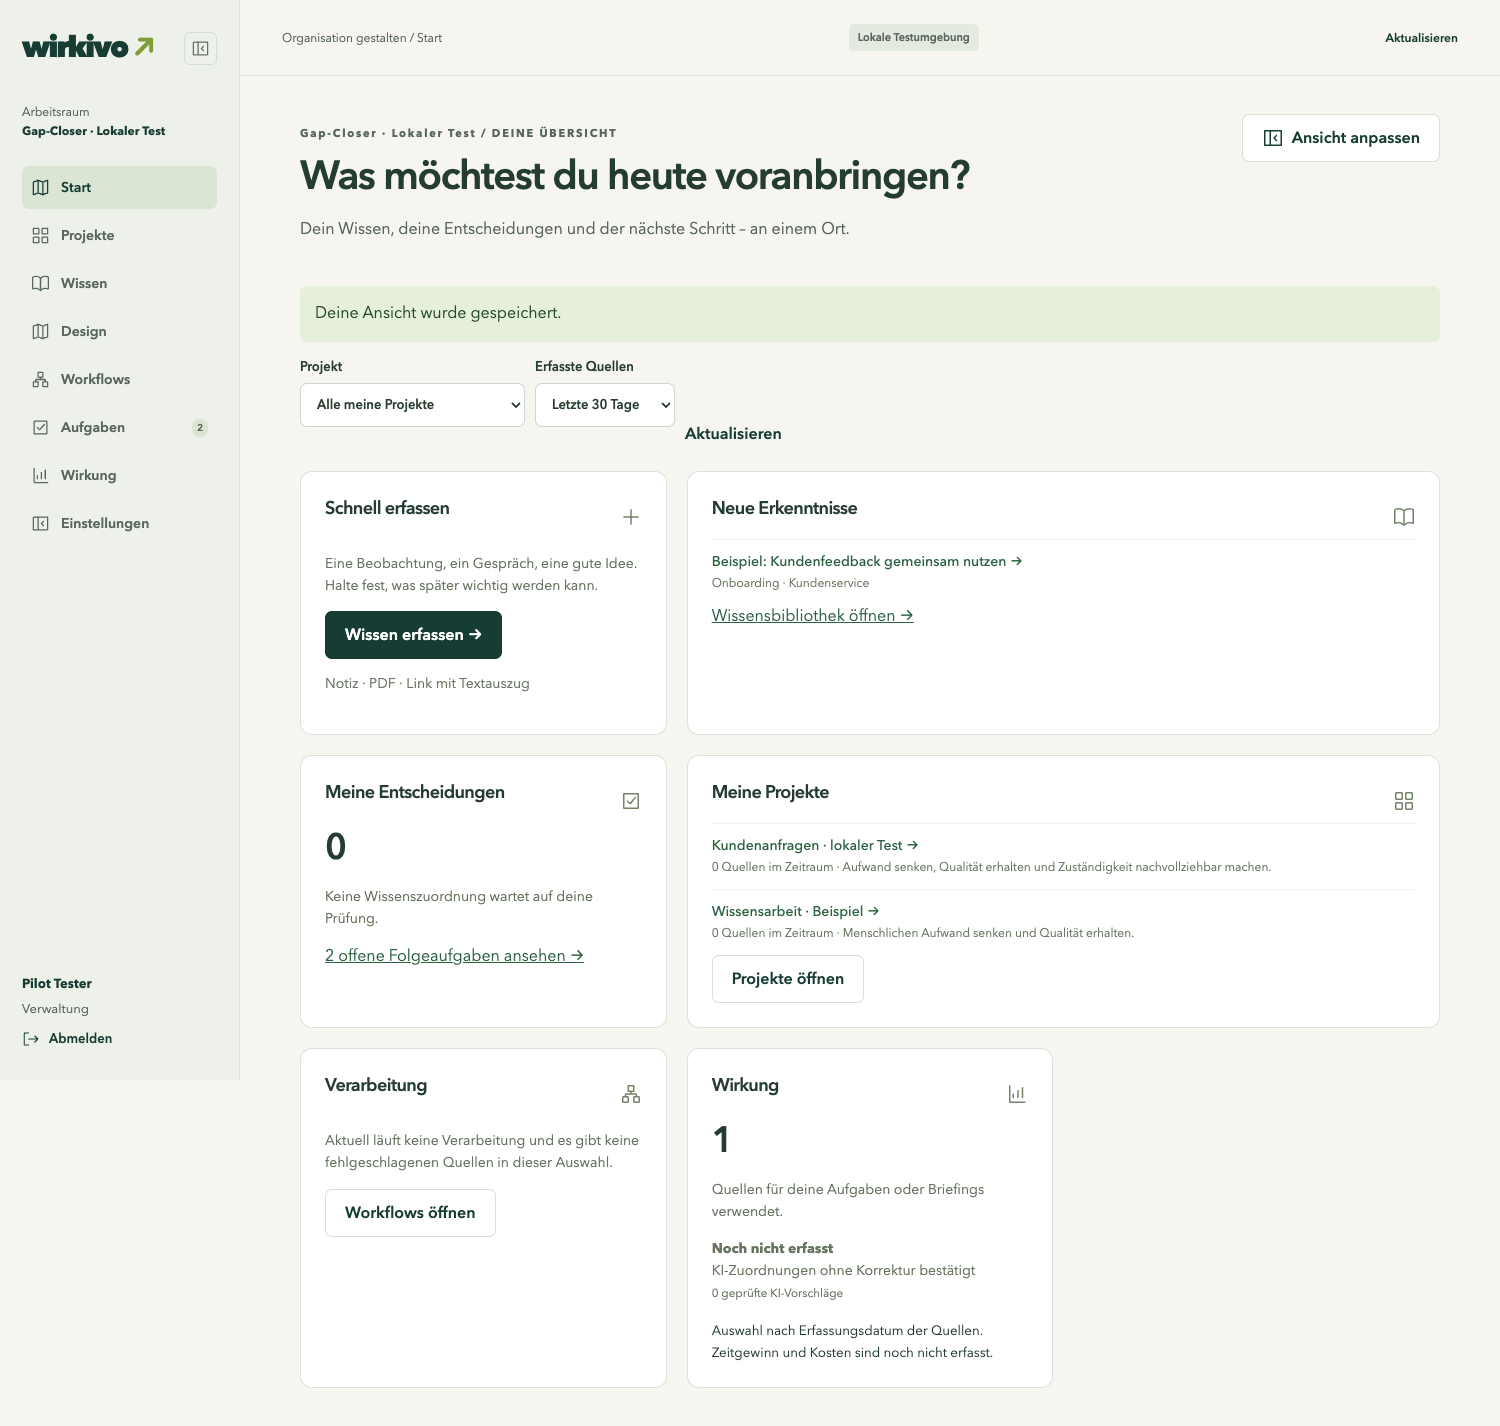
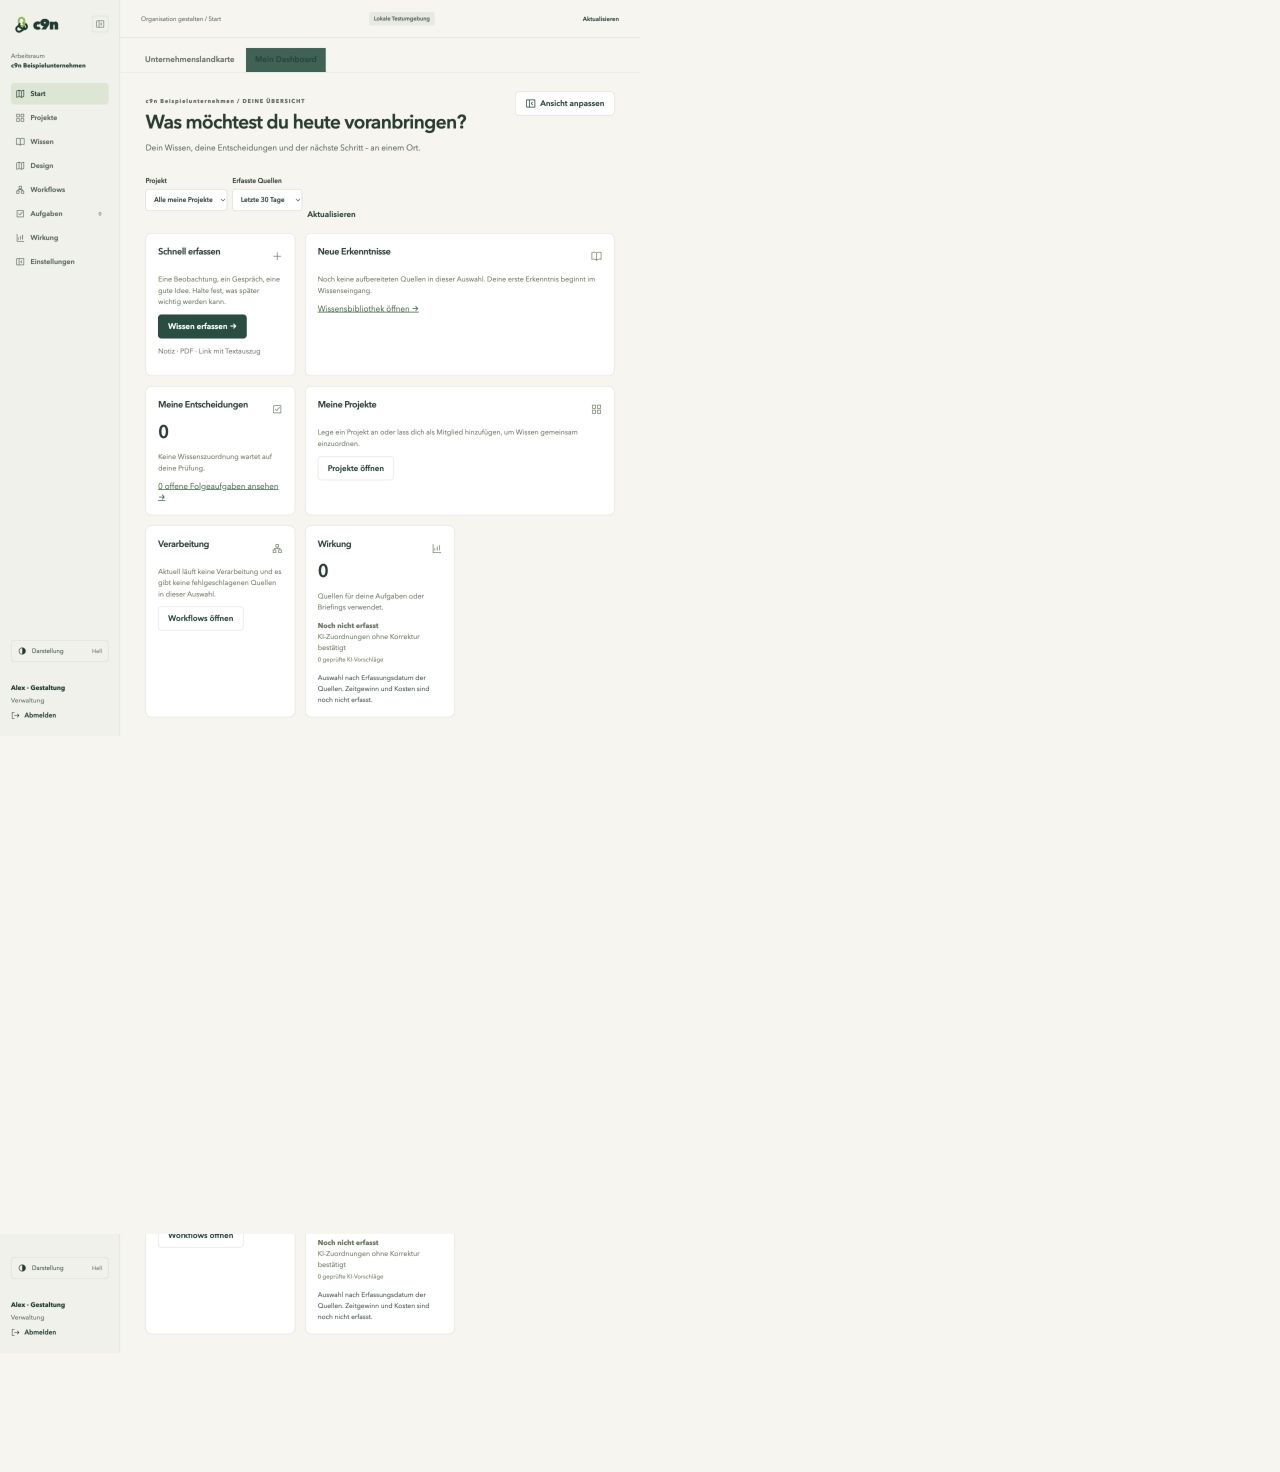
Refresh actual product screenshots with c9n branding

diff --git a/docs/index.html b/docs/index.html
@@ -1,10 +1,10 @@
 <!doctype html><html lang="de"><head><meta charset="utf-8"><meta name="viewport" content="width=device-width,initial-scale=1"><title>c9n — Zusammenarbeit mit KI gestalten. Wirkung belegen.</title><meta name="description" content="Entdecke c9n: Unternehmensgestaltung, gemeinsames Wissen, Workflows mit menschlicher Prüfung und nachvollziehbare Messung. Starte mit einem begleiteten Prozesspilot."><link rel="canonical" href="https://c9n.app/"><link rel="alternate" hreflang="de" href="https://c9n.app/"><link rel="alternate" hreflang="en" href="https://c9n.app/en.html"><link rel="alternate" hreflang="x-default" href="https://c9n.app/"><meta property="og:title" content="c9n — Zusammenarbeit mit KI gestalten"><meta property="og:description" content="Den echten Prototyp ansehen, den Entwicklungsstand verstehen und einen messbaren Prozesspilot besprechen."><meta property="og:type" content="website"><meta property="og:locale" content="de_DE"><meta property="og:url" content="https://c9n.app/"><meta property="og:image" content="https://c9n.app/assets/company-landscape.png"><meta name="twitter:card" content="summary_large_image"><link rel="stylesheet" href="site.css"><script src="language.js" defer></script><script src="contact.js" defer></script><link rel="icon" type="image/svg+xml" href="assets/favicon.svg"></head><body>
 <header><a class="logo" href="#"><svg class="c9n-brand-symbol" viewBox="-4 -4 72 72" aria-hidden="true"><g fill="none" stroke-width="8" stroke-linecap="round"><path d="M25 35 16 40a11 11 0 0 0 11 19l10-6a11 11 0 0 0 4-15" stroke="currentColor"/><path d="m40 25 9 5a11 11 0 0 1-11 19l-10-6a11 11 0 0 1-4-15" stroke="currentColor"/><path d="M21 22V15a11 11 0 0 1 22 0v12a11 11 0 0 1-11 11" stroke="#88bd32"/></g></svg>c9n</a><nav aria-label="Hauptnavigation"><a href="#product">Produkt</a><a href="#evidence">Nachweise</a><a href="https://github.com/dajor/c9n/discussions">Community</a><a href="en.html" data-language class="language-switch" lang="en" hreflang="en" aria-label="Switch to English"><span class="language-flag" aria-hidden="true">🇬🇧</span><span>English</span></a></nav><a class="button small" href="#contact">Pilot besprechen ↗</a></header>
 <main><section class="hero"><p class="eyebrow">ORGANISATION · WISSEN · WORKFLOWS · WIRKUNG</p><h1>Gib KI einen Platz<br>in deinem Unternehmen.<br><em>Und ein messbares Ziel.</em></h1><p class="intro">Ein gemeinsames Bild davon, wer was übernimmt. Workflows, die dein Team prüfen kann. Messungen, die zeigen, ob die Veränderung hilft.</p><div class="actions"><a class="button" href="#contact">Mit einem Prozess starten ↗</a><a href="#product">Das echte Produkt ansehen ↓</a></div><p class="note">Lokaler Prototyp · begleitete Piloten auf Anfrage · Produktcode derzeit privat</p></section>
-<figure class="hero-shot" id="product"><img src="assets/company-landscape.png" width="1600" height="1000" alt="c9n-Unternehmenslandkarte mit sechs Bereichen, gemeinsamer Wissensbasis und Erklärung des ausgewählten Vertriebsassistenten." fetchpriority="high"><figcaption>Echter Prototyp, September 2026. Beispielorganisation mit geplanten KI-Rollen. Die Ansicht enthält keine erfundenen Kundenergebnisse.</figcaption></figure>
+<figure class="hero-shot" id="product"><img src="assets/company-landscape.png" alt="c9n-Unternehmenslandkarte mit sechs Bereichen, gemeinsamer Wissensbasis und Erklärung des ausgewählten Vertriebsassistenten." fetchpriority="high" width="1280" height="1428"><figcaption>Echter Prototyp, September 2026. Beispielorganisation mit geplanten KI-Rollen. Die Ansicht enthält keine erfundenen Kundenergebnisse.</figcaption></figure>
 <section class="product-section"><div><p class="eyebrow">01 / ZUSAMMENARBEIT GESTALTEN</p><h2>Alle sehen dasselbe<br>Unternehmen.</h2></div><p>Bringe Menschen, KI-Rollen und Übergaben in einer Unternehmenslandkarte zusammen. Vergleiche den heutigen Ablauf mit eurem Zielbild. Wähle eine Rolle, um Zweck, Verantwortung und Entscheidungen gemeinsam zu besprechen.</p></section>
-<section class="split"><div><p class="eyebrow">02 / ABLÄUFE WIEDERHOLBAR MACHEN</p><h2>Vom Gespräch zum<br>geprüften Workflow.</h2><p>Besprecht eure Zusammenarbeit im Prozessdesigner. Anschließend konfiguriert ihr eine unterstützte Automatisierung im Standard- oder Advanced-Editor. Menschliche Entscheidungen bleiben ausdrücklich Teil des Ablaufs.</p><a href="https://github.com/dajor/c9n/blob/main/docs/use-cases/knowledge.de.md">Den Wissens-Workflow kennenlernen →</a></div><img loading="lazy" src="assets/workflow-editor.png" width="1500" height="1080" alt="Der echte Advanced-Workflow-Editor mit Quellenlesen, Zuordnung, menschlicher Prüfung und Ablage."></section>
-<section class="split reverse"><div><p class="eyebrow">03 / ERKENNEN, WO DU GEBRAUCHT WIRST</p><h2>Nützliches Wissen.<br>Klare nächste Schritte.</h2><p>Halte Ideen fest, prüfe ihre Bedeutung und nutze sie für die nächste Aufgabe. Dein persönliches Dashboard verbindet Quellen, Entscheidungen, Projekte und Folgeaufgaben.</p><a href="https://github.com/dajor/c9n/blob/main/docs/use-cases/marketing.de.md">Einen weiteren Anwendungsfall ansehen →</a></div><img loading="lazy" src="assets/personal-dashboard.png" alt="Persönliches Dashboard mit Wissen, Projekten und Entscheidungen im lokalen Testarbeitsraum."></section>
+<section class="split"><div><p class="eyebrow">02 / ABLÄUFE WIEDERHOLBAR MACHEN</p><h2>Vom Gespräch zum<br>geprüften Workflow.</h2><p>Besprecht eure Zusammenarbeit im Prozessdesigner. Anschließend konfiguriert ihr eine unterstützte Automatisierung im Standard- oder Advanced-Editor. Menschliche Entscheidungen bleiben ausdrücklich Teil des Ablaufs.</p><a href="https://github.com/dajor/c9n/blob/main/docs/use-cases/knowledge.de.md">Den Wissens-Workflow kennenlernen →</a></div><img loading="lazy" src="assets/workflow-editor.png" alt="Der echte Advanced-Workflow-Editor mit Quellenlesen, Zuordnung, menschlicher Prüfung und Ablage." width="1280" height="721"></section>
+<section class="split reverse"><div><p class="eyebrow">03 / ERKENNEN, WO DU GEBRAUCHT WIRST</p><h2>Nützliches Wissen.<br>Klare nächste Schritte.</h2><p>Halte Ideen fest, prüfe ihre Bedeutung und nutze sie für die nächste Aufgabe. Dein persönliches Dashboard verbindet Quellen, Entscheidungen, Projekte und Folgeaufgaben.</p><a href="https://github.com/dajor/c9n/blob/main/docs/use-cases/marketing.de.md">Einen weiteren Anwendungsfall ansehen →</a></div><img loading="lazy" src="assets/personal-dashboard.png" alt="Persönliches Dashboard mit Wissen, Projekten und Entscheidungen im lokalen Testarbeitsraum." width="1280" height="1472"></section>
 <section class="evidence" id="evidence"><p class="eyebrow">04 / DIE VERÄNDERUNG MESSEN</p><h2>Ein gutes Dashboard<br>macht Wirkung nachvollziehbar.</h2><p>Legt fest, was Qualität bedeutet. Erfasst die Ausgangslage und berücksichtigt Prüfaufwand sowie Nacharbeit. Quelle, Zeitraum und Fallzahl gehören zu jedem Ergebnis.</p><div class="evidence-grid"><div><strong>Echtes Produkt</strong><p>Reale Screenshots und ein dokumentierter Umfang der lokalen Tests.</p></div><div><strong>Klarer Entwicklungsstand</strong><p>Unterstützte Workflows, geplante Anbindungen und offene Fragen werden getrennt ausgewiesen.</p></div><div><strong>Belegte Ergebnisse</strong><p>Einsparungen bei Kunden veröffentlichen wir erst mit geprüften Nachweisen und deren Zustimmung.</p></div></div><a href="https://github.com/dajor/c9n/blob/main/docs/EVIDENCE.de.md">Nachweise und aktuelle Grenzen lesen →</a></section>
 <section class="pilot"><p class="eyebrow">GEMEINSAM EINEN PROZESS VERBESSERN</p><h2>Ein Prozess. Eine Verantwortung.<br>Eine Entscheidung mit Nachweisen.</h2><p>Zeig uns, wo eure Arbeit ins Stocken gerät. Gemeinsam prüfen wir, ob das aktuelle Produkt einen sinnvollen Pilot unterstützt. Umfang, Dauer und Preis vereinbaren wir individuell.</p><div class="actions"><a class="button" href="#contact">Euren Prozess besprechen ↗</a><a href="https://github.com/dajor/c9n/blob/main/templates/pilot-brief.md">Pilot-Steckbrief vorbereiten ↓</a></div><p class="note">Gespräche sind auf Deutsch und Englisch möglich.</p></section>
 <section class="contact-section" id="contact" aria-labelledby="contact-title"><div class="contact-intro"><p class="eyebrow">DEIN NÄCHSTER SCHRITT</p><h2 id="contact-title">Lass uns über euren Prozess sprechen.</h2><p>Beschreibe kurz, was du verbessern möchtest. Deine Anfrage geht an Daniel Jordan.</p><p class="note">Ein konkreter Prozess reicht für den Anfang. Umfang und Preis klären wir gemeinsam.</p></div>

diff --git a/docs/en.html b/docs/en.html
@@ -1,10 +1,10 @@
 <!doctype html><html lang="en"><head><meta charset="utf-8"><meta name="viewport" content="width=device-width,initial-scale=1"><title>c9n — Design AI collaboration. Measure the difference.</title><meta name="description" content="Explore c9n: company design, shared knowledge, human-reviewed workflows and source-backed measurement. Start with one guided process pilot."><link rel="canonical" href="https://c9n.app/en.html"><meta property="og:title" content="c9n — Design how people and AI work together"><meta property="og:description" content="See the real prototype. Explore the roadmap. Discuss a measurable process pilot."><meta property="og:type" content="website"><meta property="og:url" content="https://c9n.app/en.html"><meta property="og:image" content="https://c9n.app/assets/company-landscape.png"><meta name="twitter:card" content="summary_large_image"><link rel="stylesheet" href="site.css"><link rel="alternate" hreflang="de" href="https://c9n.app/"><link rel="alternate" hreflang="en" href="https://c9n.app/en.html"><link rel="alternate" hreflang="x-default" href="https://c9n.app/"><script src="language.js" defer></script><script src="contact.js" defer></script><link rel="icon" type="image/svg+xml" href="assets/favicon.svg"></head><body>
 <header><a class="logo" href="#"><svg class="c9n-brand-symbol" viewBox="-4 -4 72 72" aria-hidden="true"><g fill="none" stroke-width="8" stroke-linecap="round"><path d="M25 35 16 40a11 11 0 0 0 11 19l10-6a11 11 0 0 0 4-15" stroke="currentColor"/><path d="m40 25 9 5a11 11 0 0 1-11 19l-10-6a11 11 0 0 1-4-15" stroke="currentColor"/><path d="M21 22V15a11 11 0 0 1 22 0v12a11 11 0 0 1-11 11" stroke="#88bd32"/></g></svg>c9n</a><nav aria-label="Main navigation"><a href="#product">Product</a><a href="#evidence">Evidence</a><a href="https://github.com/dajor/c9n/discussions">Community</a><a href="index.html" data-language class="language-switch" lang="de" hreflang="de" aria-label="Auf Deutsch wechseln"><span class="language-flag" aria-hidden="true">🇩🇪</span><span>Deutsch</span></a></nav><a class="button small" href="#contact">Discuss a pilot ↗</a></header>
 <main><section class="hero"><p class="eyebrow">ORGANISATION · KNOWLEDGE · WORKFLOWS · IMPACT</p><h1>Give AI a place<br>in your organisation.<br><em>And a result to prove.</em></h1><p class="intro">A shared picture of who does what. Workflows your team can review. Measurements that show whether the change is worth keeping.</p><div class="actions"><a class="button" href="#contact">Start with one process ↗</a><a href="#product">See the actual product ↓</a></div><p class="note">Local prototype · guided pilot enquiries · application source currently private</p></section>
-<figure class="hero-shot" id="product"><img src="assets/company-landscape.png" width="1600" height="1000" alt="c9n company landscape with six departments, a shared knowledge centre and the selected sales assistant role." fetchpriority="high"><figcaption>Actual prototype, September 2026. Example organisation and planned AI roles. No simulated customer success metrics.</figcaption></figure>
+<figure class="hero-shot" id="product"><img src="assets/company-landscape.png" alt="c9n company landscape with six departments, a shared knowledge centre and the selected sales assistant role." fetchpriority="high" width="1280" height="1428"><figcaption>Actual prototype, September 2026. Example organisation and planned AI roles. No simulated customer success metrics.</figcaption></figure>
 <section class="product-section"><div><p class="eyebrow">01 / DESIGN THE WORK</p><h2>Everyone sees<br>the same organisation.</h2></div><p>Bring people, AI roles and handovers into one company map. Compare today with your intended operating model. Select a role to discuss its purpose, responsibilities and decisions.</p></section>
-<section class="split"><div><p class="eyebrow">02 / MAKE IT REPEATABLE</p><h2>From a conversation<br>to a reviewed workflow.</h2><p>Use the process designer to agree on the work, then configure a supported automation in the Standard or Advanced editor. Keep human judgement explicit.</p><a href="https://github.com/dajor/c9n/blob/main/docs/use-cases/knowledge.md">Explore the knowledge workflow →</a></div><img loading="lazy" src="assets/workflow-editor.png" width="1500" height="1080" alt="The real Advanced workflow editor showing source reading, organisation, human review and storage."></section>
-<section class="split reverse"><div><p class="eyebrow">03 / KNOW WHAT NEEDS YOU</p><h2>Useful knowledge.<br>Clear next actions.</h2><p>Capture ideas, review their meaning and put them to work. Your personal dashboard brings sources, decisions, projects and follow-up work together.</p><a href="https://github.com/dajor/c9n/blob/main/docs/use-cases/marketing.md">See another use case →</a></div><img loading="lazy" src="assets/personal-dashboard.png" alt="Personal dashboard with knowledge, projects and decisions in the local test workspace."></section>
+<section class="split"><div><p class="eyebrow">02 / MAKE IT REPEATABLE</p><h2>From a conversation<br>to a reviewed workflow.</h2><p>Use the process designer to agree on the work, then configure a supported automation in the Standard or Advanced editor. Keep human judgement explicit.</p><a href="https://github.com/dajor/c9n/blob/main/docs/use-cases/knowledge.md">Explore the knowledge workflow →</a></div><img loading="lazy" src="assets/workflow-editor.png" alt="The real Advanced workflow editor showing source reading, organisation, human review and storage." width="1280" height="721"></section>
+<section class="split reverse"><div><p class="eyebrow">03 / KNOW WHAT NEEDS YOU</p><h2>Useful knowledge.<br>Clear next actions.</h2><p>Capture ideas, review their meaning and put them to work. Your personal dashboard brings sources, decisions, projects and follow-up work together.</p><a href="https://github.com/dajor/c9n/blob/main/docs/use-cases/marketing.md">See another use case →</a></div><img loading="lazy" src="assets/personal-dashboard.png" alt="Personal dashboard with knowledge, projects and decisions in the local test workspace." width="1280" height="1472"></section>
 <section class="evidence" id="evidence"><p class="eyebrow">04 / MEASURE THE DIFFERENCE</p><h2>A better-looking dashboard<br>is only the beginning.</h2><p>Define what quality means. Record the baseline. Include review effort and rework. Keep the source, period and sample size with the result.</p><div class="evidence-grid"><div><strong>Actual product</strong><p>Real screenshots and a documented local test scope.</p></div><div><strong>Explicit limits</strong><p>Supported workflows, planned integrations and open questions are named separately.</p></div><div><strong>No invented ROI</strong><p>Customer savings will be published only with reviewed evidence and permission.</p></div></div><a href="https://github.com/dajor/c9n/blob/main/docs/EVIDENCE.md">Read the evidence and limitations →</a></section>
 <section class="pilot"><p class="eyebrow">LET'S MAKE ONE PROCESS BETTER</p><h2>One process. One owner.<br>A decision based on evidence.</h2><p>Tell us where work gets stuck. Together we can assess whether the current product supports a useful pilot. Scope, timing and price are agreed individually.</p><div class="actions"><a class="button" href="#contact">Discuss your process ↗</a><a href="https://github.com/dajor/c9n/blob/main/templates/pilot-brief.md">Prepare a pilot brief ↓</a></div><p class="note">English and German conversations are welcome.</p></section>
 <section class="contact-section" id="contact" aria-labelledby="contact-title"><div class="contact-intro"><p class="eyebrow">YOUR NEXT STEP</p><h2 id="contact-title">Let’s talk about your process.</h2><p>Tell us briefly what you would like to improve. Your enquiry goes to Daniel Jordan.</p><p class="note">One specific process is enough to start. We will agree on scope and pricing together.</p></div>
